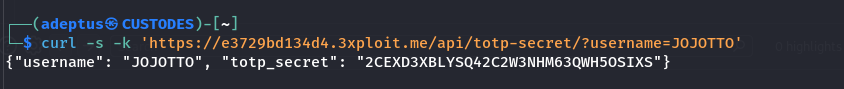
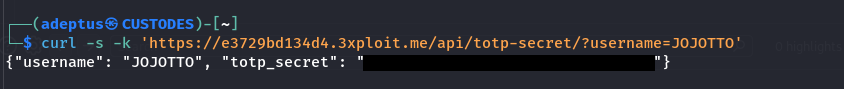
docs: improve TOTP secret leak writeup

Changed region(s): [[0.4313, 0.6067, 0.8009, 0.809]]

diff --git a/WOCShAck#5/WriteUps/TOTP_Secret_Leak/TOTP_Secret_Leak.md b/WOCShAck#5/WriteUps/TOTP_Secret_Leak/TOTP_Secret_Leak.md
@@ -16,34 +16,38 @@ Unauthenticated TOTP-secret disclosure (CWE-200 / CWE-522) on `GET /api/totp-sec
 
 ```bash
 curl -sk 'http://<TARGET>/api/totp-secret/?username=JOJOTTO'
-# {"username":"JOJOTTO","totp_secret":"2CEXD3XBLYSQ42C2W3NHM63QWH5OSIXS"}
+# {"username":"JOJOTTO","totp_secret":"[REDACTED]"}
 ```
 
 ![Unauthenticated TOTP secret returned](CWE-522.png)
 
 **2. Load the secret into an authenticator** (Type: *Time-based*, Key: the leaked secret) and read off valid codes:
 
-![Importing the leaked secret into Google Authenticator](CWE-522_Google_Auth_1.png)
-
-![Generated TOTP code matches the victim's](CWE-522_Google_Auth_2.png)
-
-![Valid second factor produced for the victim account](CWE-522_Google_Auth_3.png)
+<p align="center">
+  <img src="CWE-522_Google_Auth_1.png" width="250" alt="Authenticator screenshot 1">
+  <img src="CWE-522_Google_Auth_2.png" width="250" alt="Authenticator screenshot 2">
+  <img src="CWE-522_Google_Auth_3.png" width="250" alt="Authenticator screenshot 3">
+</p>
 
 # Risk
 
 | Dimension | Impact |
 |-----------|--------|
-| Confidentiality | TOTP seed of every user disclosed. |
+| Confidentiality | Unauthorised disclosure of sensitive TOTP authentication secrets. |
 | Integrity | Complete MFA bypass enables account takeover when combined with leaked/guessed passwords. |
 | Availability | None directly. |
 
-Overall severity: **High** — the second authentication factor is rendered useless platform-wide, with no privilege required.
+Overall severity: **High** — exposure of sensitive authentication material compromises the security guarantees provided by TOTP-based multi-factor authentication.
 
 # Remediation
 
-1. **Never expose TOTP secrets via any API.** Remove the endpoint.
-2. If a provisioning flow is required, return the secret **once**, only over an authenticated, ownership-verified session, at enrolment time.
-3. **Rotate all TOTP secrets** that may have been exposed.
+1. **Remove unauthorised TOTP secret disclosure** — remove the vulnerable secret retrieval functionality and ensure that existing TOTP secrets are never exposed through general-purpose API responses.
+2. **Secure TOTP enrolment and replacement** — restrict provisioning to authenticated, ownership-verified users over HTTPS. Require appropriate reauthentication and authorisation before enrolling or replacing authentication factors. Limit secret disclosure to the protected enrolment process.
+3. **Protect TOTP secrets at rest** — use encryption at rest with securely managed encryption keys. Restrict access to the authentication components that require the secrets for verification.
+4. **Prevent secondary secret exposure** — exclude TOTP secrets from application logs, API serializers, diagnostic responses and administrative exports. Prevent caching of sensitive provisioning responses.
+5. **Revoke and rotate exposed TOTP secrets** — invalidate potentially compromised secrets and require secure MFA re-enrolment for affected accounts. Review existing sessions and notify affected users as appropriate.
+6. **Implement security monitoring** — audit authentication factor enrolment, replacement and revocation without recording secret values. Investigate potentially unauthorised access to authentication material.
+7. **Add regression tests** — verify authentication and authorisation controls, secret confidentiality, secure enrolment, secret rotation and the invalidation of previously revoked authentication factors.
 
 # Author
 CUSTODES SQUAD
